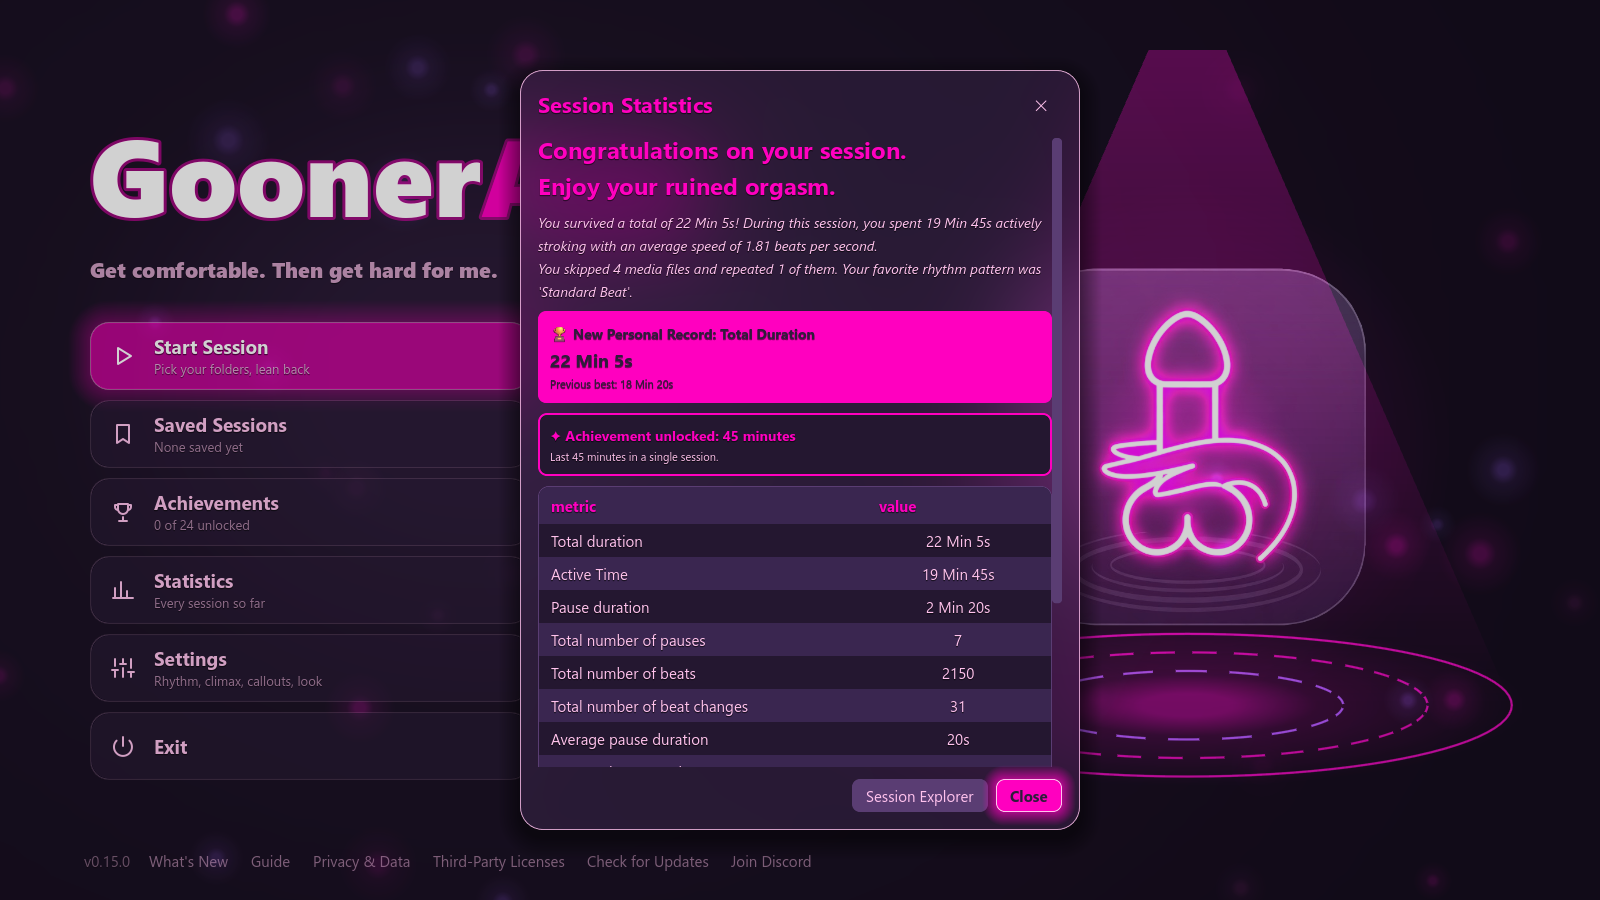
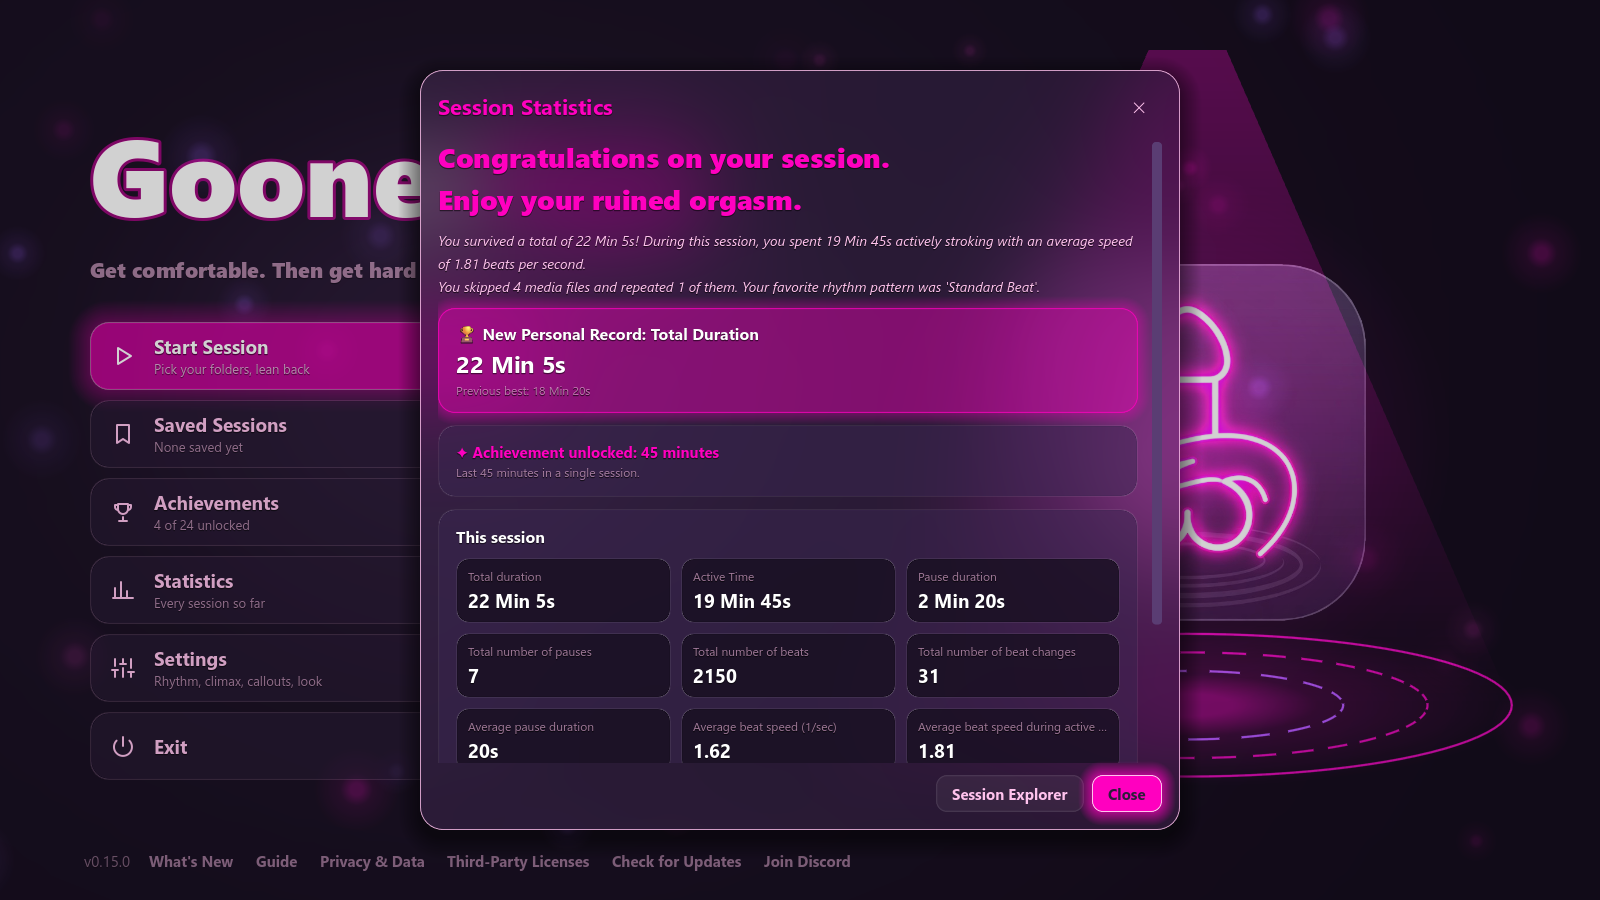
docs(engine): 0.15.0 names the redesigned windows, and the README shows them

diff --git a/engine/Gooner.Core/App/Changelog.cs b/engine/Gooner.Core/App/Changelog.cs
@@ -402,6 +402,9 @@ public static class Changelog
             "<li><b>No more menu bar.</b> A start screen greets you in her voice, and during a " +
             "session your controls float on glass you can drag anywhere, or throw out of your " +
             "way</li>" +
+            "<li><b>Every window got dressed up.</b> Settings with a sidebar, sliders you can drag or simply " +
+            "type into, and a live preview of your look; your stats as tiles, your data laid out on glass - " +
+            "and whatever you want gone, you tick</li>" +
             "<li><b>The app speaks German and French now too</b> - its own words, not just her " +
             "callouts. Settings &gt; Playback &gt; App Language</li>" +
             "<li><b>It comes as a folder now.</b> Unpack it anywhere: your settings, history, " +
